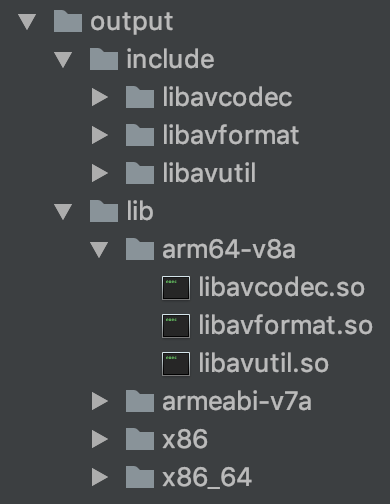
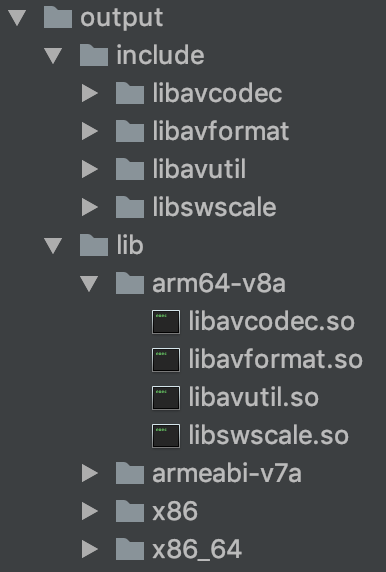
Updating README.md to display libswscale

Changed region(s): [[0.0311, 0.0, 0.9637, 0.9821]]

diff --git a/README.md b/README.md
@@ -2,8 +2,8 @@
 
 Here is a script that downloads the source code of [FFmpeg](https://www.ffmpeg.org) library and assembles it for Android. The script produces shared libraries as well as header files. The output structure looks like this:  
 <img src="https://github.com/Javernaut/ffmpeg-android-maker/blob/master/images/output_structure.png" width="200">  
-The actual content of all this directories depends on how the FFmpeg was configured before assembling. For my purpose I enabled only *libavcodec*, *libavformat* and *libavutil*, but you can set your own configuration to make the FFmpeg you need.
-The version of FFmpeg here is **4.1.3**. And the script expects to use Android NDK **r19** (*b* and *c* also work as well as *r20-beta1*). Starting with FFmpeg 4.1 and NDK r19 the whole process became much simpler.
+The actual content of all this directories depends on how the FFmpeg was configured before assembling. For my purpose I enabled only *libavcodec*, *libavformat*, *libavutil* and *libswscale*, but you can set your own configuration to make the FFmpeg you need.
+The version of FFmpeg here is **4.1.3**. And the script expects to use Android NDK **r19** (*b* and *c* also work as well as *r20-beta1* and *r20-beta2*). Starting with FFmpeg 4.1 and NDK r19 the whole process became much simpler.
 
 ## Supported architectures
 
@@ -21,7 +21,3 @@ You have to define an environment variable `ANDROID_NDK_HOME` and set the correc
 Well, just execute the script :) Examine the `output` directory after.
 
 And the actual Android app can be found [here](https://github.com/Javernaut/WhatTheCodec)
-
-## Known issues:
-
-The x86 binary doesn't have assembler optimizations, since they bring text relocations. So it may encounter certain performance issues. The x86_64 doesn't have this problem though.
